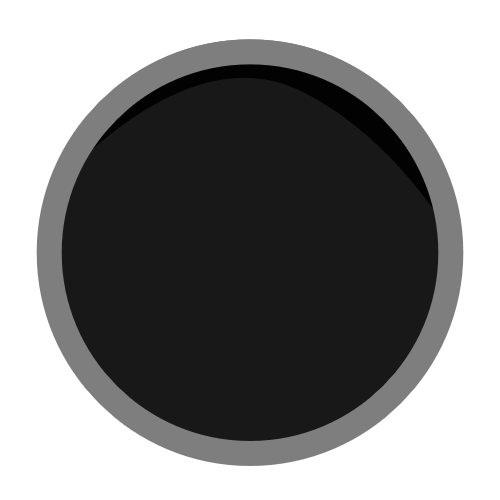
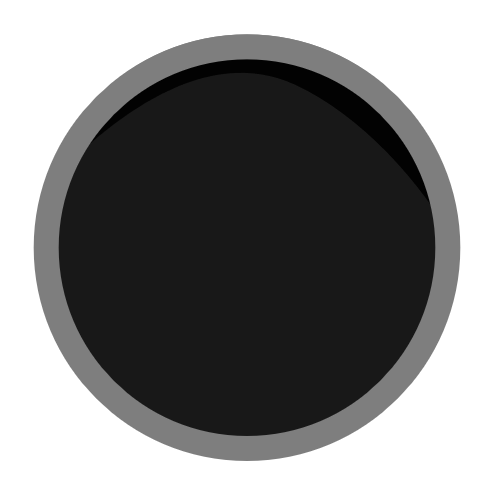
Licht verändert ButtenLight.png zugeschnitten, sonst wär der Kreis nicht mittig

diff --git a/lib/enigma_gui_page.dart b/lib/enigma_gui_page.dart
@@ -584,11 +584,16 @@ Widget leuchte(LeuchteDaten leuchte, StateUpdate update) {
       children: [
         Image.asset(
           "img/ButtonLight.png",
-          color: leuchte.leuchtet
-              ? const Color.fromRGBO(255, 255, 0, 1)
-              : const Color.fromRGBO(255, 255, 255, 1),
-          colorBlendMode: BlendMode.modulate,
         ),
+        Container(
+          width: 76.1616,
+          height: 76.1616,
+          decoration: new BoxDecoration(
+            color: leuchte.leuchtet
+                ? const Color.fromRGBO(255, 255, 0, 0.75)
+                : const Color.fromRGBO(255, 255, 0, 0),
+            shape: BoxShape.circle,
+          ),),
         Text(
           intToChar(leuchte.id),
           style: const TextStyle(color: Colors.white, fontSize: 25),
